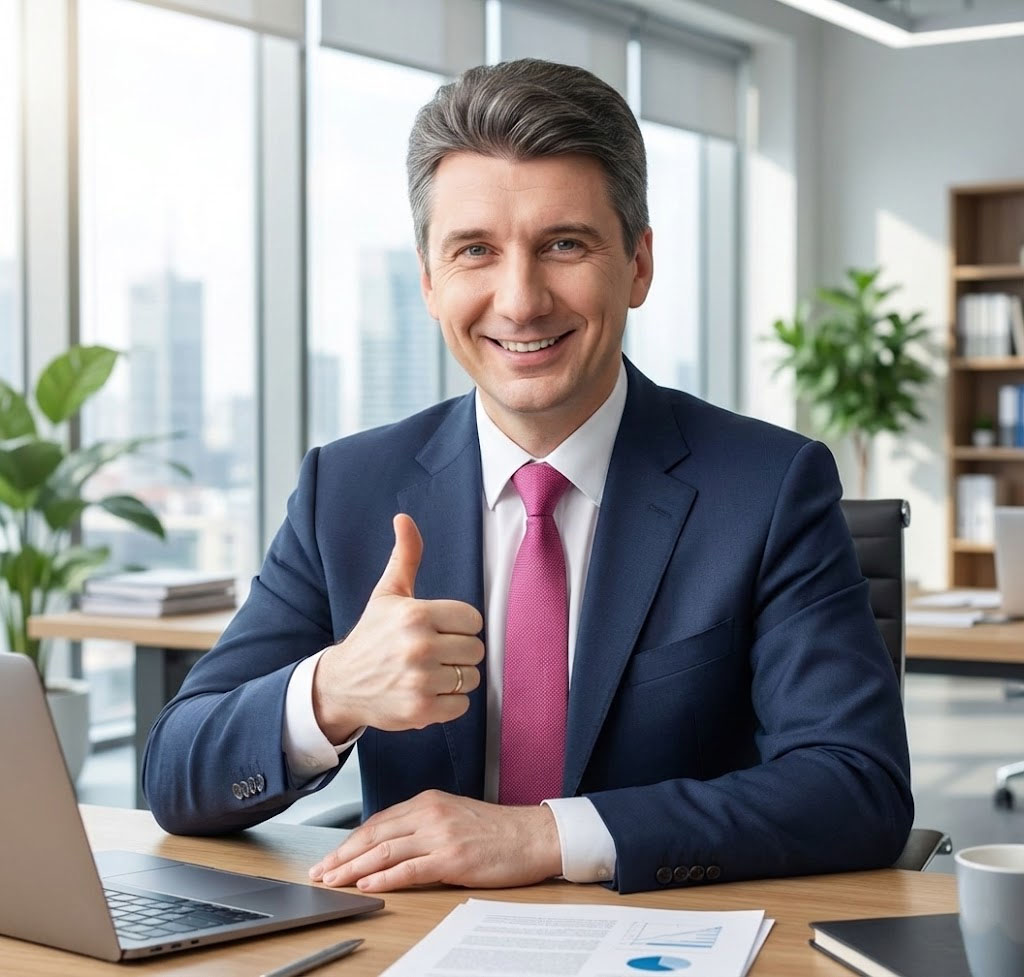
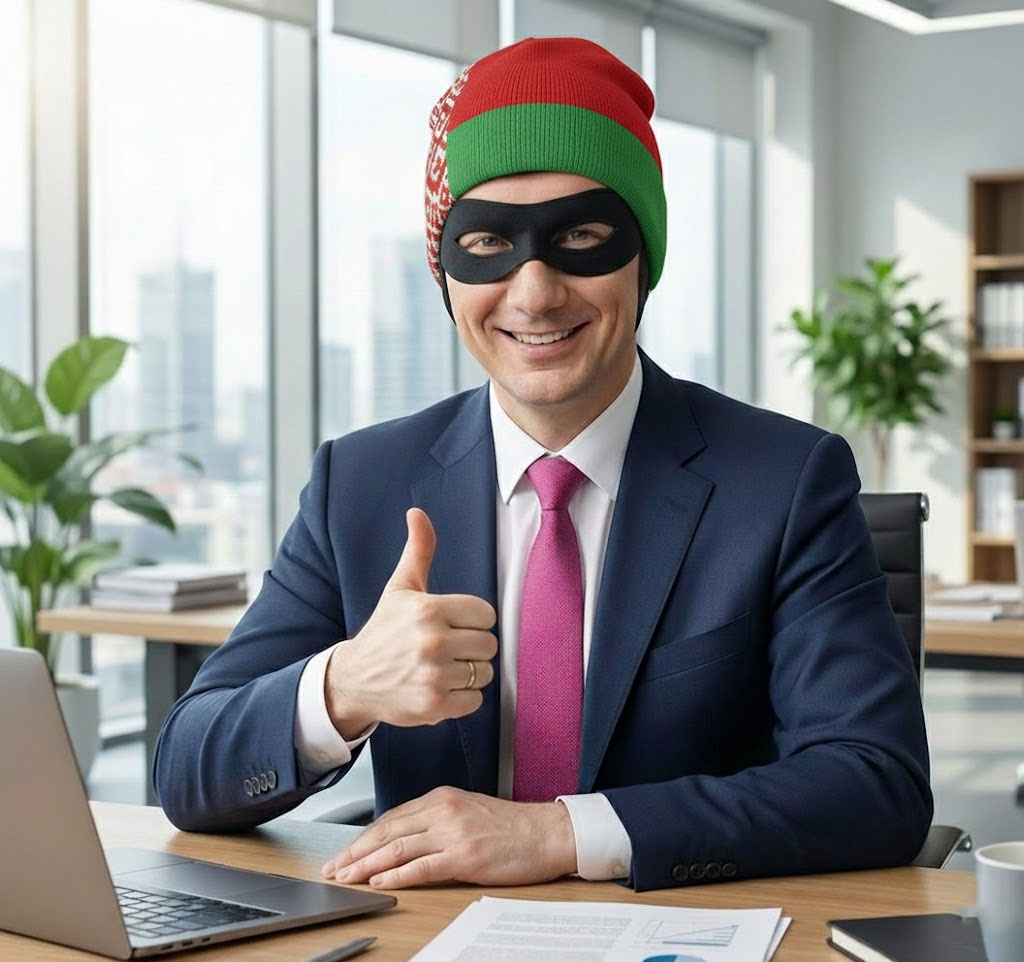
change html

diff --git a/main.py b/main.py
@@ -7,6 +7,7 @@ import threading
 import asyncio
 from datetime import datetime, timedelta, timezone
 import html
+from io import BytesIO
 
 import requests
 import urllib3
@@ -458,6 +459,64 @@ async def send_html_long(bot, chat_id, html_text, reply_markup=None, disable_pre
         )
 
 
+def build_diff_html_page(shown_title, url, diff_body_html):
+    # diff_body_html already contains <b>...</b> / <s>...</s> with escaped content,
+    # so we embed it as-is into the full HTML document.
+    safe_title = html.escape(shown_title or "")
+    safe_url = html.escape(url or "")
+    diff_html = (diff_body_html or "").strip()
+
+    return f"""<!doctype html>
+<html lang="ru">
+<head>
+  <meta charset="utf-8" />
+  <meta name="viewport" content="width=device-width, initial-scale=1" />
+  <title>{safe_title}</title>
+  <style>
+    body {{ font-family: -apple-system, BlinkMacSystemFont, "Segoe UI", Roboto, Arial, sans-serif; margin: 16px; }}
+    .header {{ margin-bottom: 12px; }}
+    .title {{ font-size: 18px; font-weight: 700; margin-bottom: 6px; }}
+    .url a {{ color: #0645ad; text-decoration: none; word-break: break-all; }}
+    .diff {{
+      white-space: pre-wrap;
+      font-family: ui-monospace, SFMono-Regular, Menlo, Monaco, Consolas, "Liberation Mono", "Courier New", monospace;
+      font-size: 13px;
+      line-height: 1.35;
+      border: 1px solid #eee;
+      padding: 12px;
+      border-radius: 8px;
+    }}
+    b {{
+      background: #fff3cd;
+      color: #856404;
+      padding: 0 2px;
+      border-radius: 3px;
+    }}
+    s {{
+      background: #f8d7da;
+      color: #721c24;
+      padding: 0 2px;
+      border-radius: 3px;
+      text-decoration: line-through;
+    }}
+  </style>
+</head>
+<body>
+  <div class="header">
+    <div class="title"><b>{safe_title}</b></div>
+    <div class="url"><a href="{safe_url}" target="_blank" rel="noopener noreferrer">{safe_url}</a></div>
+  </div>
+  <div class="diff">{diff_html}</div>
+</body>
+</html>"""
+
+
+def build_diff_filename(wid, dt):
+    # Telegram хранит filename как есть, так что убираем небезопасные символы.
+    ts = (dt or utcnow()).astimezone(timezone.utc).strftime("%Y%m%dT%H%M%SZ")
+    return "diff_{}_{}.html".format(wid, ts)
+
+
 class SqliteRepo:
     def __init__(self, path):
         self.path = path
@@ -817,15 +876,20 @@ async def check_one_watch(app, w, sem):
                 shown_title = title.strip() or last_title.strip() or "Изменения"
                 diff_body_html = build_diff_merged_html(last_body, body)
 
-                header_html = "<b>{}</b>\n{}\n\n".format(html.escape(shown_title), html.escape(url))
-                message_html = (header_html + (diff_body_html or "")).strip()
+                html_doc = build_diff_html_page(
+                    shown_title=shown_title,
+                    url=url,
+                    diff_body_html=diff_body_html,
+                )
 
-                await send_html_long(
-                    bot=app.bot,
+                filename = build_diff_filename(wid=wid, dt=now)
+                caption = "Внесены изменения в новость: {}".format(shown_title)
+                await app.bot.send_document(
                     chat_id=owner_id,
-                    html_text=message_html,
+                    document=BytesIO(html_doc.encode("utf-8")),
+                    filename=filename,
+                    caption=caption,
                     reply_markup=build_reply_kb(),
-                    disable_preview=True,
                 )
 
             repo.touch_watch_ok(wid, new_hash, title, body, status)
